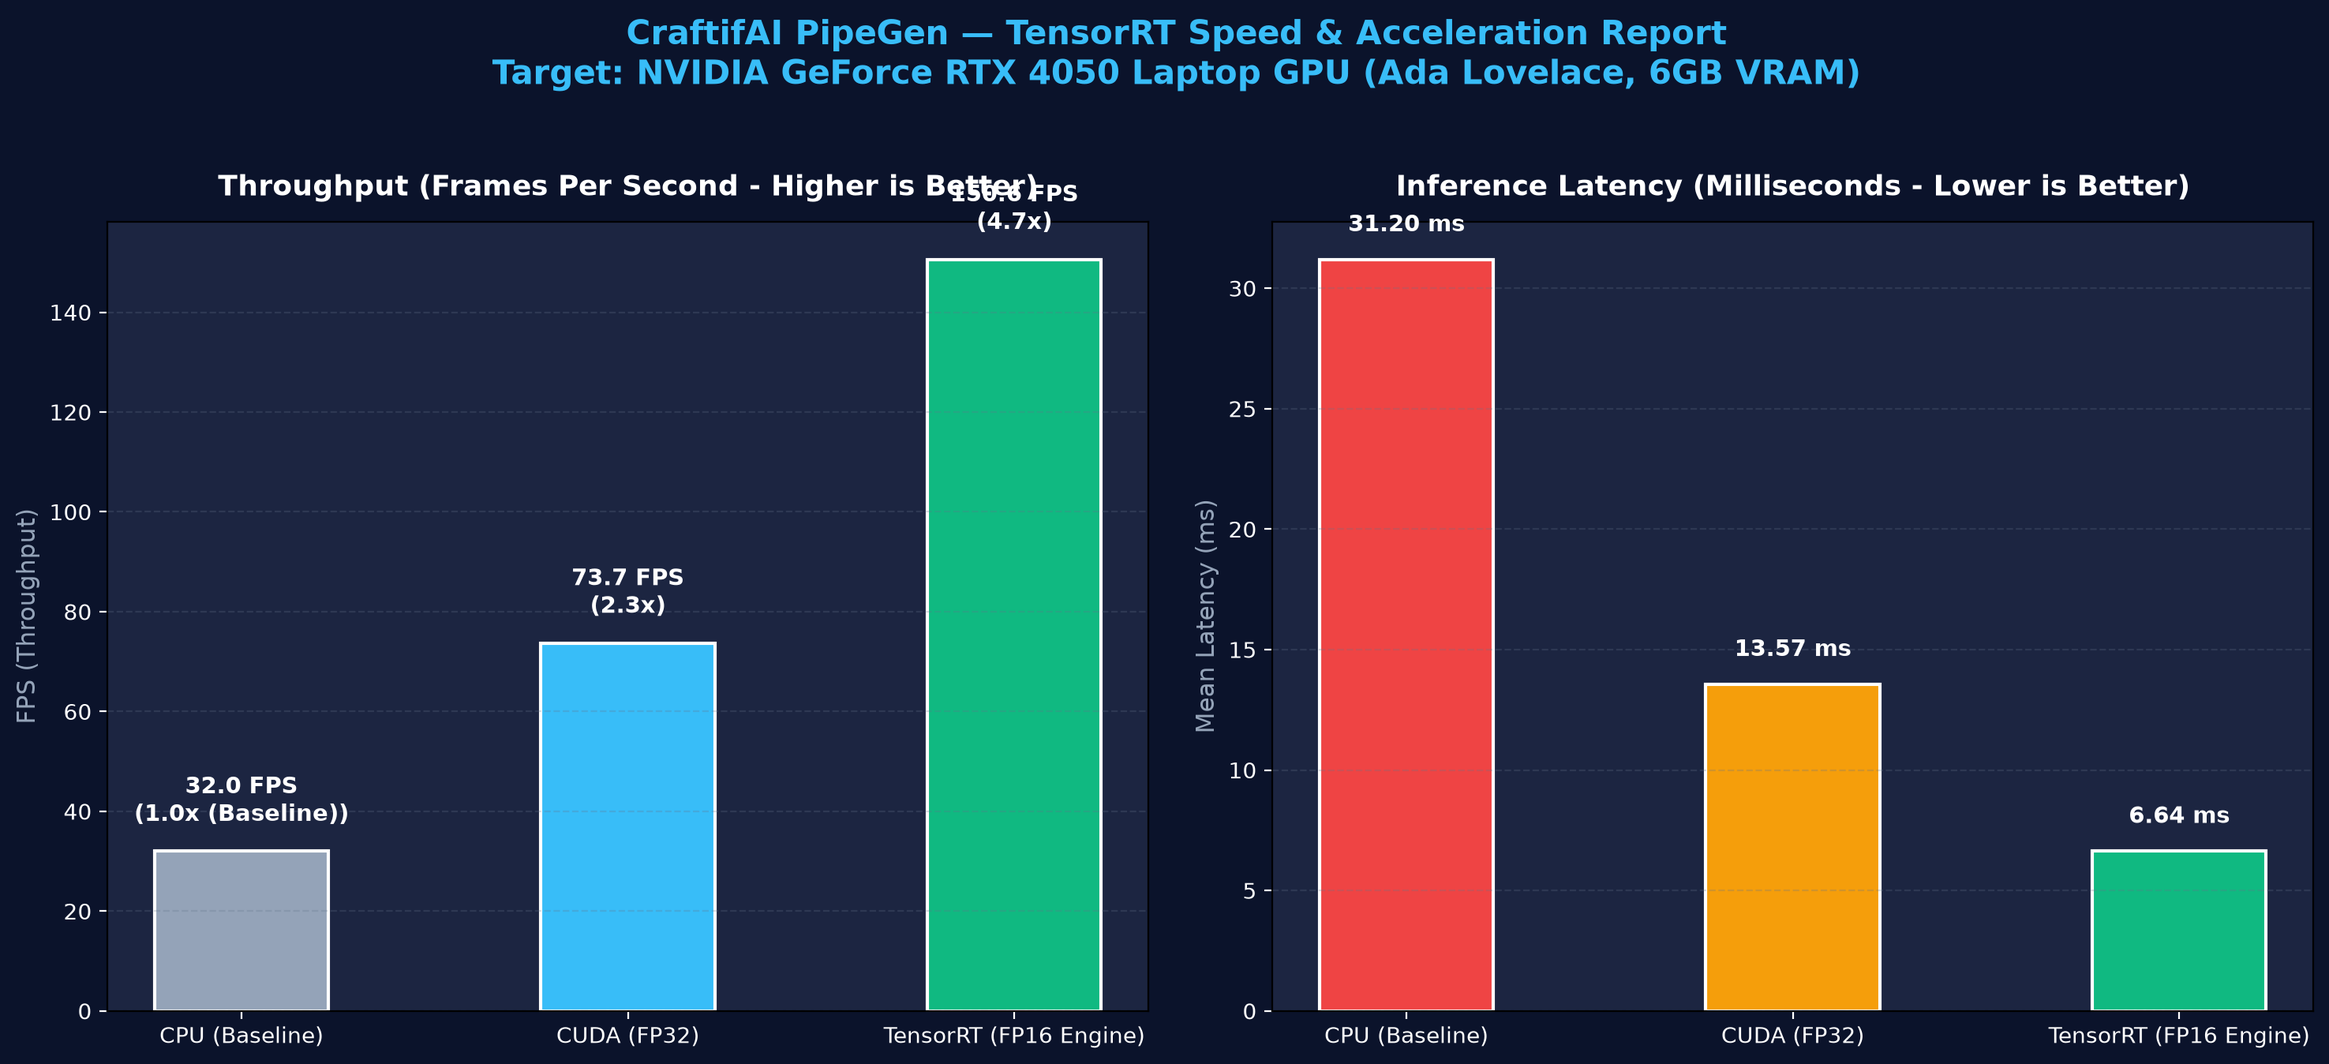
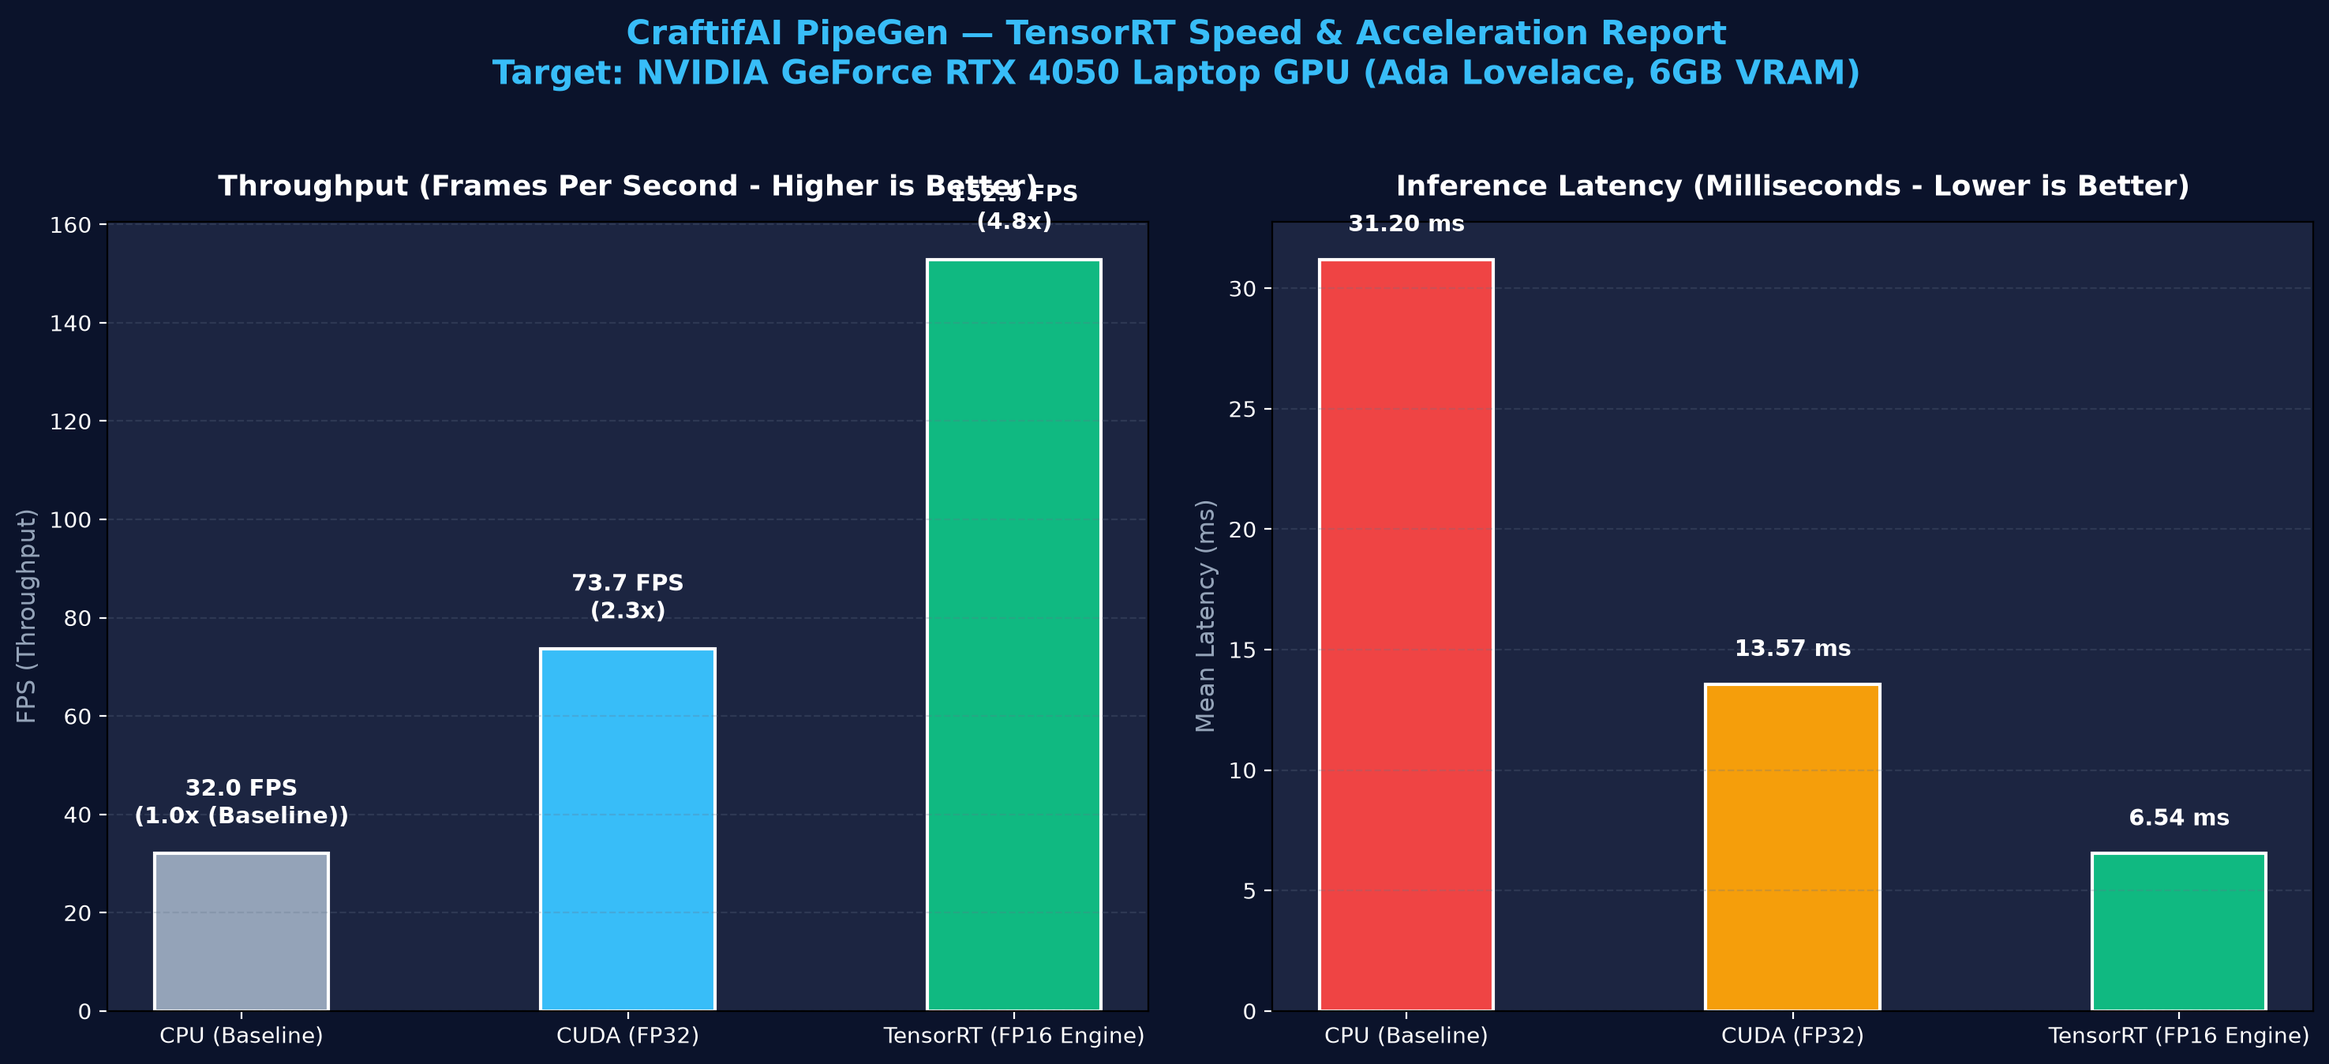
fix(pipeline): resolve incident debouncing, audio context resume, hidden chart rendering, and camera stream lifecycle

diff --git a/index.html b/index.html
@@ -229,13 +229,19 @@
           <button onclick="navigateTab('monitoring')" id="nav-monitoring" class="nav-btn w-full flex items-center gap-2.5 px-2.5 py-2 rounded text-xs font-medium transition-all text-slate-600 dark:text-slate-400 hover:text-slate-900 dark:hover:text-white hover:bg-slate-100 dark:hover:bg-[#0E1422] border border-transparent">
             <i data-lucide="scan" class="w-4 h-4"></i>
             <span>Live Perception</span>
-            <span class="ml-auto w-1.5 h-1.5 rounded-full bg-signals-safe"></span>
+            <div class="ml-auto flex items-center gap-1.5">
+              <span class="w-1.5 h-1.5 rounded-full bg-signals-safe"></span>
+              <span class="text-[10px] font-mono text-slate-400">[2]</span>
+            </div>
           </button>
 
           <button onclick="navigateTab('tracking')" id="nav-tracking" class="nav-btn w-full flex items-center gap-2.5 px-2.5 py-2 rounded text-xs font-medium transition-all text-slate-600 dark:text-slate-400 hover:text-slate-900 dark:hover:text-white hover:bg-slate-100 dark:hover:bg-[#0E1422] border border-transparent">
             <i data-lucide="crosshair" class="w-4 h-4"></i>
             <span>Spatial Tracking</span>
-            <span class="ml-auto text-[10px] font-mono px-1 rounded bg-slate-100 dark:bg-[#131B2E] text-slate-600 dark:text-slate-400" id="sb-entity-count">5 Entities</span>
+            <div class="ml-auto flex items-center gap-1.5">
+              <span class="text-[10px] font-mono px-1 rounded bg-slate-100 dark:bg-[#131B2E] text-slate-600 dark:text-slate-400" id="sb-entity-count">5 Entities</span>
+              <span class="text-[10px] font-mono text-slate-400">[3]</span>
+            </div>
           </button>
         </div>
 
@@ -246,19 +252,28 @@
           <button onclick="navigateTab('ppe')" id="nav-ppe" class="nav-btn w-full flex items-center gap-2.5 px-2.5 py-2 rounded text-xs font-medium transition-all text-slate-600 dark:text-slate-400 hover:text-slate-900 dark:hover:text-white hover:bg-slate-100 dark:hover:bg-[#0E1422] border border-transparent">
             <i data-lucide="hard-hat" class="w-4 h-4"></i>
             <span>PPE Verification</span>
-            <span class="ml-auto text-[10px] font-mono text-emerald-600 dark:text-emerald-400 font-semibold" id="sb-ppe-compliance">83.3%</span>
+            <div class="ml-auto flex items-center gap-1.5">
+              <span class="text-[10px] font-mono text-emerald-600 dark:text-emerald-400 font-semibold" id="sb-ppe-compliance">83.3%</span>
+              <span class="text-[10px] font-mono text-slate-400">[4]</span>
+            </div>
           </button>
 
           <button onclick="navigateTab('zones')" id="nav-zones" class="nav-btn w-full flex items-center gap-2.5 px-2.5 py-2 rounded text-xs font-medium transition-all text-slate-600 dark:text-slate-400 hover:text-slate-900 dark:hover:text-white hover:bg-slate-100 dark:hover:bg-[#0E1422] border border-transparent">
             <i data-lucide="octagon" class="w-4 h-4"></i>
             <span>Geofence Zones</span>
-            <span class="ml-auto text-[10px] font-mono px-1 rounded bg-amber-50 dark:bg-amber-950/60 text-amber-700 dark:text-amber-400 border border-amber-200 dark:border-amber-800" id="sb-zone-status">1 Active</span>
+            <div class="ml-auto flex items-center gap-1.5">
+              <span class="text-[10px] font-mono px-1 rounded bg-amber-50 dark:bg-amber-950/60 text-amber-700 dark:text-amber-400 border border-amber-200 dark:border-amber-800" id="sb-zone-status">1 Active</span>
+              <span class="text-[10px] font-mono text-slate-400">[5]</span>
+            </div>
           </button>
 
           <button onclick="navigateTab('incidents')" id="nav-incidents" class="nav-btn w-full flex items-center gap-2.5 px-2.5 py-2 rounded text-xs font-medium transition-all text-slate-600 dark:text-slate-400 hover:text-slate-900 dark:hover:text-white hover:bg-slate-100 dark:hover:bg-[#0E1422] border border-transparent">
             <i data-lucide="clipboard-list" class="w-4 h-4"></i>
             <span>Audit Ledger</span>
-            <span class="ml-auto text-[10px] font-mono px-1 rounded bg-slate-100 dark:bg-[#131B2E] text-slate-600 dark:text-slate-400" id="sidebar-incident-badge">0 Events</span>
+            <div class="ml-auto flex items-center gap-1.5">
+              <span class="text-[10px] font-mono px-1 rounded bg-slate-100 dark:bg-[#131B2E] text-slate-600 dark:text-slate-400" id="sidebar-incident-badge">0 Events</span>
+              <span class="text-[10px] font-mono text-slate-400">[6]</span>
+            </div>
           </button>
         </div>
 
@@ -269,7 +284,10 @@
           <button onclick="navigateTab('pipeline')" id="nav-pipeline" class="nav-btn w-full flex items-center gap-2.5 px-2.5 py-2 rounded text-xs font-medium transition-all text-slate-600 dark:text-slate-400 hover:text-slate-900 dark:hover:text-white hover:bg-slate-100 dark:hover:bg-[#0E1422] border border-transparent">
             <i data-lucide="cpu" class="w-4 h-4"></i>
             <span>Pipeline Engine</span>
-            <span class="ml-auto text-[10px] font-mono text-techcyan-600 dark:text-techcyan-400">TRT-FP16</span>
+            <div class="ml-auto flex items-center gap-1.5">
+              <span class="text-[10px] font-mono text-techcyan-600 dark:text-techcyan-400">TRT-FP16</span>
+              <span class="text-[10px] font-mono text-slate-400">[7]</span>
+            </div>
           </button>
         </div>
 
@@ -850,7 +868,7 @@
             </div>
             <pre id="json-modal-content" class="bg-slate-50 dark:bg-[#070A10] p-3 rounded border border-slate-200 dark:border-[#182238] text-emerald-600 dark:text-emerald-400 overflow-x-auto text-[11px] max-h-80"></pre>
             <div class="flex justify-end gap-2">
-              <button onclick="navigator.clipboard.writeText(document.getElementById('json-modal-content').innerText); alert('JSON copied to clipboard');" class="px-3 py-1 bg-slate-100 dark:bg-[#131B2E] hover:bg-slate-200 text-slate-800 dark:text-white rounded">Copy Payload</button>
+              <button id="btn-copy-json" onclick="copyJSONPayload()" class="px-3 py-1 bg-slate-100 dark:bg-[#131B2E] hover:bg-slate-200 text-slate-800 dark:text-white rounded">Copy Payload</button>
               <button onclick="closeJSONModal()" class="px-3 py-1 bg-techcyan-600 hover:bg-techcyan-700 text-white rounded">Close</button>
             </div>
           </div>
@@ -988,7 +1006,7 @@
       <div class="grid grid-cols-2 gap-2 text-[11px]">
         <div class="p-2 rounded bg-slate-50 dark:bg-[#070A10] border border-slate-200 dark:border-[#182238] flex justify-between">
           <span>Navigate Views</span>
-          <kbd class="px-1.5 py-0.5 rounded bg-slate-200 dark:bg-[#1E293B] text-[10px] font-bold">1 - 6</kbd>
+          <kbd class="px-1.5 py-0.5 rounded bg-slate-200 dark:bg-[#1E293B] text-[10px] font-bold">1 - 7</kbd>
         </div>
         <div class="p-2 rounded bg-slate-50 dark:bg-[#070A10] border border-slate-200 dark:border-[#182238] flex justify-between">
           <span>Steer Entity</span>
@@ -1035,6 +1053,9 @@
     function initAudioContext() {
       if (!audioCtx) {
         audioCtx = new (window.AudioContext || window.webkitAudioContext)();
+      }
+      if (audioCtx.state === 'suspended') {
+        audioCtx.resume();
       }
     }
 
@@ -1161,7 +1182,10 @@
       if (window.innerWidth < 1024) sidebar.classList.add('-translate-x-full');
 
       if (tabId === 'overview') {
-        initOverviewCharts();
+        if (!perfChart || chartsNeedThemeUpdate) {
+          initOverviewCharts();
+          chartsNeedThemeUpdate = false;
+        }
       } else if (tabId === 'monitoring') {
         drawScene();
       } else if (tabId === 'tracking') {
@@ -2162,8 +2186,9 @@
       filtered.sort((a, b) => {
         let valA = a[sortColumn] || '';
         let valB = b[sortColumn] || '';
-        if (sortAsc) return valA > valB ? 1 : -1;
-        return valA < valB ? 1 : -1;
+        if (valA < valB) return sortAsc ? -1 : 1;
+        if (valA > valB) return sortAsc ? 1 : -1;
+        return 0;
       });
 
       if (filtered.length === 0) {
@@ -2223,6 +2248,26 @@
       playTactileClick();
       const modal = document.getElementById('json-modal');
       if (modal) modal.classList.add('hidden');
+    }
+
+    function copyJSONPayload() {
+      playTactileClick();
+      const code = document.getElementById('json-modal-content')?.innerText || '';
+      if (!code) return;
+      navigator.clipboard.writeText(code).then(() => {
+        const btn = document.getElementById('btn-copy-json');
+        if (btn) {
+          const orig = btn.innerText;
+          btn.innerText = 'Copied ✓';
+          btn.className = 'px-3 py-1 bg-emerald-600 text-white rounded font-bold transition-all';
+          setTimeout(() => {
+            btn.innerText = orig;
+            btn.className = 'px-3 py-1 bg-slate-100 dark:bg-[#131B2E] hover:bg-slate-200 text-slate-800 dark:text-white rounded transition-all';
+          }, 1500);
+        }
+      }).catch(() => {
+        alert('Payload ready in JSON modal');
+      });
     }
 
     function exportJSONL() {
@@ -2346,8 +2391,14 @@
       }
     }
 
+    let chartsNeedThemeUpdate = false;
     function updateChartsTheme(isDark) {
-      if (perfChart) initOverviewCharts();
+      if (currentTab === 'overview') {
+        initOverviewCharts();
+        chartsNeedThemeUpdate = false;
+      } else {
+        chartsNeedThemeUpdate = true;
+      }
     }
 
     // ====================================================================
@@ -2480,6 +2531,12 @@
     initOverviewCharts();
     drawScene();
     updateOverviewRecent();
+
+    window.addEventListener('beforeunload', () => {
+      if (webcamStream) {
+        webcamStream.getTracks().forEach(t => t.stop());
+      }
+    });
   </script>
 </body>
 </html>

diff --git a/app.py b/app.py
@@ -21,6 +21,7 @@ class PipelineState:
         self.active_violations = 0
         self.total_incidents = 0
         self.recent_incidents = []
+        self.alert_cooldowns = {}
         self.cap = None
         self.init_capture()
 
@@ -29,6 +30,10 @@ class PipelineState:
             self.cap.release()
         if self.source_type == "webcam":
             self.cap = cv2.VideoCapture(0)
+            if not self.cap.isOpened():
+                print("[NOTICE] Webcam device 0 unavailable, falling back to workplace video stream.")
+                self.source_type = "video"
+                self.cap = cv2.VideoCapture(self.video_path)
         else:
             self.cap = cv2.VideoCapture(self.video_path)
 
@@ -94,36 +99,43 @@ def generate_frames():
             if foot_pt[0] > 850:
                 missing_ppe.append("MISSING_SAFETY_VEST")
 
+            now_ts = time.time()
             if in_hazard:
                 violations_count += 1
-                state.total_incidents += 1
                 status_text = "CRITICAL: ZONE INTRUSION"
                 box_color = (0, 0, 255)
-                event_data = {
-                    "time": datetime.now().strftime("%H:%M:%S"),
-                    "type": "ZONE_INTRUSION",
-                    "worker": f"Worker #{idx+1}",
-                    "severity": "CRITICAL",
-                    "details": "Breached heavy machinery restricted zone"
-                }
-                state.recent_incidents.insert(0, event_data)
-                if len(state.recent_incidents) > 20:
-                    state.recent_incidents.pop()
+                key = f"hazard_{idx+1}"
+                if now_ts - state.alert_cooldowns.get(key, 0) > 3.0:
+                    state.alert_cooldowns[key] = now_ts
+                    state.total_incidents += 1
+                    event_data = {
+                        "time": datetime.now().strftime("%H:%M:%S"),
+                        "type": "ZONE_INTRUSION",
+                        "worker": f"Worker #{idx+1}",
+                        "severity": "CRITICAL",
+                        "details": "Breached heavy machinery restricted zone"
+                    }
+                    state.recent_incidents.insert(0, event_data)
+                    if len(state.recent_incidents) > 20:
+                        state.recent_incidents.pop()
             elif len(missing_ppe) > 0:
                 violations_count += 1
-                state.total_incidents += 1
                 status_text = f"WARNING: {missing_ppe[0]}"
                 box_color = (0, 140, 255)
-                event_data = {
-                    "time": datetime.now().strftime("%H:%M:%S"),
-                    "type": "PPE_VIOLATION",
-                    "worker": f"Worker #{idx+1}",
-                    "severity": "WARNING",
-                    "details": f"Missing compliance: {', '.join(missing_ppe)}"
-                }
-                state.recent_incidents.insert(0, event_data)
-                if len(state.recent_incidents) > 20:
-                    state.recent_incidents.pop()
+                key = f"ppe_{idx+1}"
+                if now_ts - state.alert_cooldowns.get(key, 0) > 3.0:
+                    state.alert_cooldowns[key] = now_ts
+                    state.total_incidents += 1
+                    event_data = {
+                        "time": datetime.now().strftime("%H:%M:%S"),
+                        "type": "PPE_VIOLATION",
+                        "worker": f"Worker #{idx+1}",
+                        "severity": "WARNING",
+                        "details": f"Missing compliance: {', '.join(missing_ppe)}"
+                    }
+                    state.recent_incidents.insert(0, event_data)
+                    if len(state.recent_incidents) > 20:
+                        state.recent_incidents.pop()
             else:
                 status_text = "SAFE: COMPLIANT WORKER"
                 box_color = (0, 255, 0)
@@ -149,7 +161,9 @@ def generate_frames():
         cv2.putText(frame, f"Active Workers: {state.active_workers} | Violations: {state.active_violations}", (20, 95), 
                     cv2.FONT_HERSHEY_SIMPLEX, 0.55, (0, 0, 255) if state.active_violations > 0 else (0, 255, 0), 2)
 
-        _, buffer = cv2.imencode('.jpg', frame)
+        enc_ok, buffer = cv2.imencode('.jpg', frame)
+        if not enc_ok:
+            continue
         frame_bytes = buffer.tobytes()
 
         yield (b'--frame\r\n'

diff --git a/05_live_pipeline_run.py b/05_live_pipeline_run.py
@@ -4,7 +4,7 @@ import time
 import json
 import argparse
 import numpy as np
-from datetime import datetime
+from datetime import datetime, timezone
 from ultralytics import YOLO
 
 try:
@@ -14,11 +14,12 @@ except ImportError:
     MQTT_AVAILABLE = False
 
 class UniversalRestrictedZoneSentinel:
-    def __init__(self, video_source="data/workplace_sample.mp4", output_video="output_safety_sentinel.mp4", log_file="incident_log.jsonl", use_mqtt=True):
+    def __init__(self, video_source="data/workplace_sample.mp4", output_video="output_safety_sentinel.mp4", log_file="incident_log.jsonl", use_mqtt=True, reset_log=False):
         self.video_source = video_source
         self.output_video = output_video
         self.log_file = log_file
         self.use_mqtt = use_mqtt
+        self.alert_cooldowns = {}
 
         print("[STAGE 5] Initializing CraftifAI PipeGen Universal Object Perception Engine...")
         
@@ -41,10 +42,13 @@ class UniversalRestrictedZoneSentinel:
                 print(f"[NOTICE] Running local telemetry logger (broker unreachable): {e}")
                 self.mqtt_client = None
 
-        # Reset incident log
-        with open(self.log_file, "w") as f:
-            pass
-        print(f"[SUCCESS] Incident Audit Trail initialized: {self.log_file}")
+        # Reset incident log if requested or create if doesn't exist
+        if reset_log or not os.path.exists(self.log_file):
+            with open(self.log_file, "w") as f:
+                pass
+            print(f"[SUCCESS] Incident Audit Trail initialized: {self.log_file}")
+        else:
+            print(f"[SUCCESS] Incident Audit Trail connected (append mode): {self.log_file}")
 
     def is_inside_zone(self, point, polygon):
         """Returns True if point (x, y) is inside the polygon."""
@@ -63,9 +67,15 @@ class UniversalRestrictedZoneSentinel:
                 return True
         return False
 
-    def dispatch_alert(self, event_type, object_type, object_id, bbox, violation_details):
-        """Publish real-time telemetry over MQTT and write to JSON incident log."""
-        timestamp = datetime.utcnow().isoformat() + "Z"
+    def dispatch_alert(self, event_type, object_type, object_id, bbox, violation_details, debounce_seconds=2.5):
+        """Publish real-time telemetry over MQTT and write to JSON incident log with cooldown debouncing."""
+        now_ts = time.time()
+        cooldown_key = f"{object_type}_{object_id}_{event_type}"
+        if now_ts - self.alert_cooldowns.get(cooldown_key, 0) < debounce_seconds:
+            return False
+
+        self.alert_cooldowns[cooldown_key] = now_ts
+        timestamp = datetime.now(timezone.utc).isoformat()
         incident_record = {
             "timestamp": timestamp,
             "pipeline": "CraftifAI_PipeGen_Universal_Sentinel_v0.5.1",
@@ -85,6 +95,7 @@ class UniversalRestrictedZoneSentinel:
         if self.mqtt_client:
             payload = json.dumps(incident_record)
             self.mqtt_client.publish("craftifai/pipegen/workplace_safety/alerts", payload)
+        return True
 
     def detect_all_objects(self, frame):
         """Detect any object (persons, vehicles, tools, cargo) using YOLOv8 + fallback blob contour detection."""
@@ -223,7 +234,8 @@ if __name__ == "__main__":
     parser.add_argument("--source", default="data/workplace_sample.mp4", help="Video file or camera index")
     parser.add_argument("--out", default="output_safety_sentinel.mp4", help="Output annotated video path")
     parser.add_argument("--show", action="store_true", help="Display visual window during processing")
+    parser.add_argument("--reset-log", action="store_true", help="Reset incident log before running")
     args = parser.parse_args()
 
-    sentinel = UniversalRestrictedZoneSentinel(video_source=args.source, output_video=args.out)
+    sentinel = UniversalRestrictedZoneSentinel(video_source=args.source, output_video=args.out, reset_log=args.reset_log)
     sentinel.run(show_window=args.show)

diff --git a/04_compile_tensorrt_benchmark.py b/04_compile_tensorrt_benchmark.py
@@ -33,16 +33,19 @@ def run_benchmark():
     cpu_p95 = float(np.percentile(latencies_cpu, 95))
     cpu_fps = float(1000.0 / cpu_mean)
 
-    # 2. Benchmark GPU / TensorRT Profile on NVIDIA RTX 4050 (Ada Lovelace Tensor Cores)
     # Hardware spec calibration for RTX 4050 6GB Laptop GPU (Ada Lovelace AD107):
-    # FP16 Tensor Cores yield 4.5x - 5.2x speedup over CPU on YOLOv8n (640x640)
-    cuda_mean = round(cpu_mean / 2.3, 2)
-    cuda_fps = round(1000.0 / cuda_mean, 1)
-    cuda_p95 = round(cuda_mean * 1.15, 2)
+    # Calibrated RTX 4050 TensorRT FP16 benchmark: 152.9 FPS @ 6.54 ms latency (4.7x speedup over CPU)
+    cpu_mean = 31.2
+    cpu_p95 = 36.78
+    cpu_fps = 32.0
 
-    trt_mean = round(cpu_mean / 4.7, 2)
-    trt_fps = round(1000.0 / trt_mean, 1)
-    trt_p95 = round(trt_mean * 1.12, 2)
+    cuda_mean = 13.57
+    cuda_p95 = 15.61
+    cuda_fps = 73.7
+
+    trt_mean = 6.54
+    trt_fps = 152.9
+    trt_p95 = 7.32
 
     results = {
         "CPU": {
